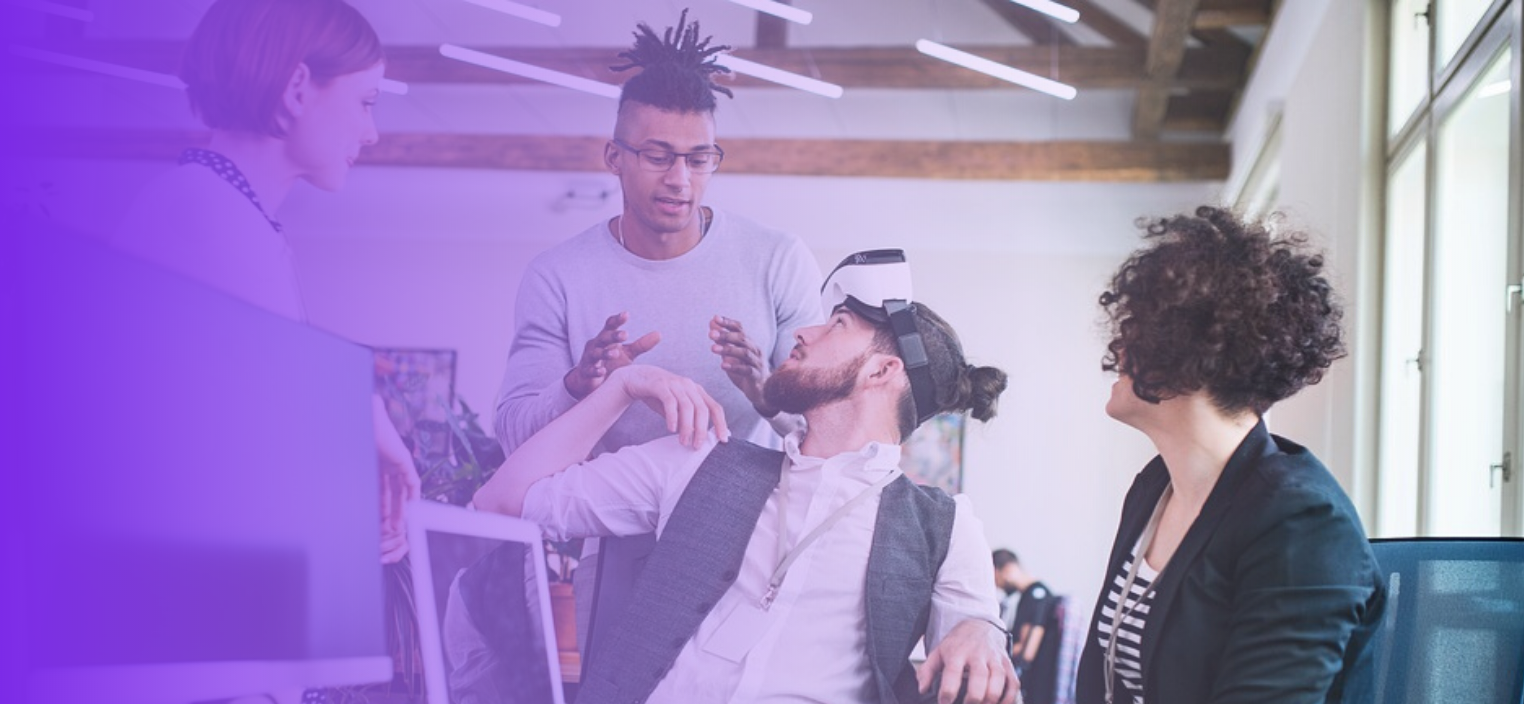
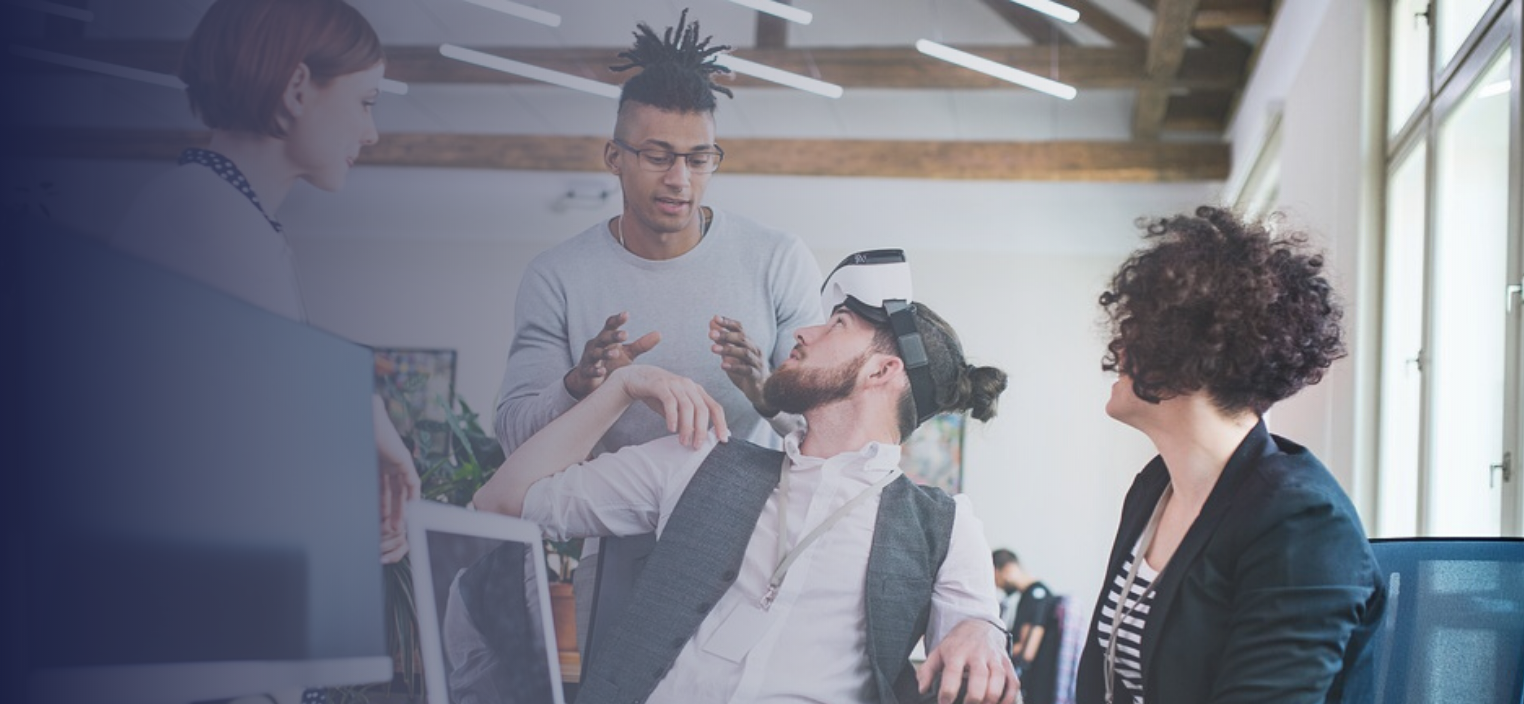
worked

diff --git a/css/styles.css b/css/styles.css
@@ -1,3 +1,38 @@
+#header img {
+    width: 30px;
+    margin-right: 1rem;
+}
+
+.btn-linkstart {
+    background-color: #094461;
+    color: white;
+}
+
 #footer {
     background: #1c3643;
+}
+
+#footer a {
+    color: white;
+}
+
+#Hero {
+    background: hsl(201, 56%, 24%);
+    color: white;
+    position: relative;
+}
+
+#Hero .overlay {
+    position: absolute;
+    top: 0;
+    bottom: 0;
+    left: 0;
+    right: 0;
+    /* background-color: rgba(0, 0, 0, 0.5); */
+    color: white;
+}
+
+#Hero .overlay .container,
+#Hero .overlay .row {
+    height: 100%;
 }

diff --git a/index.php b/index.php
@@ -7,10 +7,33 @@
 
     <!-- Bootstrap CSS -->
     <link rel="stylesheet" href="https://stackpath.bootstrapcdn.com/bootstrap/4.4.1/css/bootstrap.min.css" integrity="sha384-Vkoo8x4CGsO3+Hhxv8T/Q5PaXtkKtu6ug5TOeNV6gBiFeWPGFN9MuhOf23Q9Ifjh" crossorigin="anonymous">
-    <link rel="shortcut icon" href="assets/favicon.png" type="image/x-icon">
+    <link rel="shortcut icon" href="assets/img/Logo.png" type="image/x-icon">
     <link rel="stylesheet" href="css/styles.css">
     <title>LinkStart</title>
   </head>
   <body>
-    
+      <nav id="header" class="navbar navbar-expand-lg navbar-dark bg-dark">
+      <div class="container">
+      <a class="navbar-brand" href="#">
+        <img src="assets/img/Logo.png" alt="">LinkStart
+      </a>
+      <button class="navbar-toggler" type="button" data-toggle="collapse" data-target="#navbarSupportedContent" aria-controls="navbarSupportedContent" aria-expanded="false" aria-label="Toggle navigation">
+        <span class="navbar-toggler-icon"></span>
+      </button>
+
+      <div class="collapse navbar-collapse" id="navbarSupportedContent">
+        <ul class="navbar-nav ml-auto">
+          <li class="nav-item active">
+            <a class="nav-link" href="#">Nosotros <span class="sr-only">(current)</span></a>
+          </li>
+          <li class="nav-item">
+            <a class="nav-link" href="#">Objetivos</a>
+          </li>
+          <li class="nav-item">
+            <a class="nav-link" href="#">Soluciones</a>
+          </li>
+      </div>
+      </div>
+    </nav>
+<?php include 'includes/contents.php'; ?>
 <?php include 'includes/footer.php'; ?>

diff --git a/includes/contents.php b/includes/contents.php
@@ -1,0 +1,20 @@
+
+<section id="Hero">
+    <img src="assets/img/hero.png" alt="Hero" class="img-fluid rounded">
+    <div class="overlay">
+        <div class="container">
+            <div class="row align-items-center">
+                <div class="col-md-6 text-center text-md-left">
+                    <h1>En LinkStart:</h1>
+                    <p class="d-none d-md-block">
+                        Buscamos ser los detonantes de la cultura TECH en el interior del país. 
+                        Mostrando a las personas que existen herramientas que pueden hacer su vida más fácil
+                        a la vez que aprenden a usarlas para hacer más simples las vidas de los demás en la sociedad.
+                    </p>
+                    <a href="#" class="btn btn-outline-light">Quiero formar parte</a>
+                    <button type="button" class="btn btn-linkstart">Apoyanos</button>
+                </div>
+            </div>
+        </div>
+    </div>
+</section>

diff --git a/includes/footer.php b/includes/footer.php
@@ -1,10 +1,10 @@
-    <footer id="footer">
+    <footer id="footer" class="pb-4 pt-4">
         <div class="container">
-            <div class="row">
-                <div class="col">
+            <div class="row text-center">
+                <div class="col-12 col-lg">
                     <a href="#">Contactanos</a>
                 </div>
-                <div class="col">
+                <div class="col-12 col-lg">
                     <a href="#">Apoyanos</a>
                 </div>
             </div>
